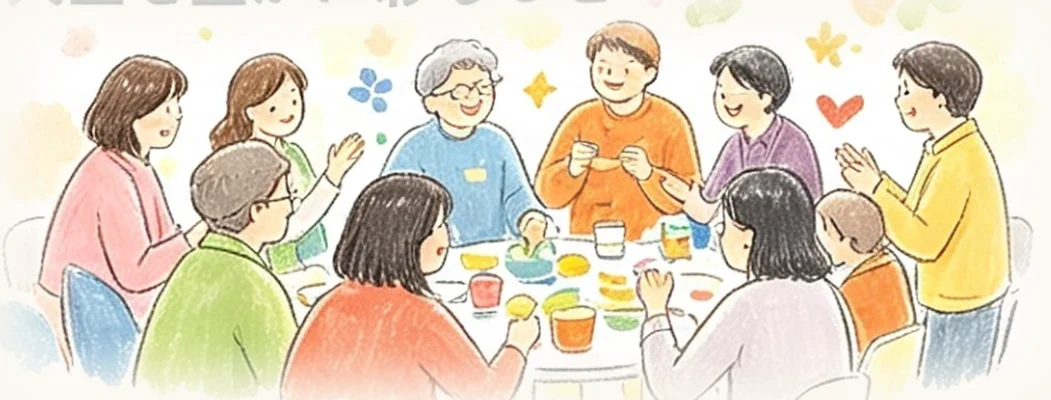
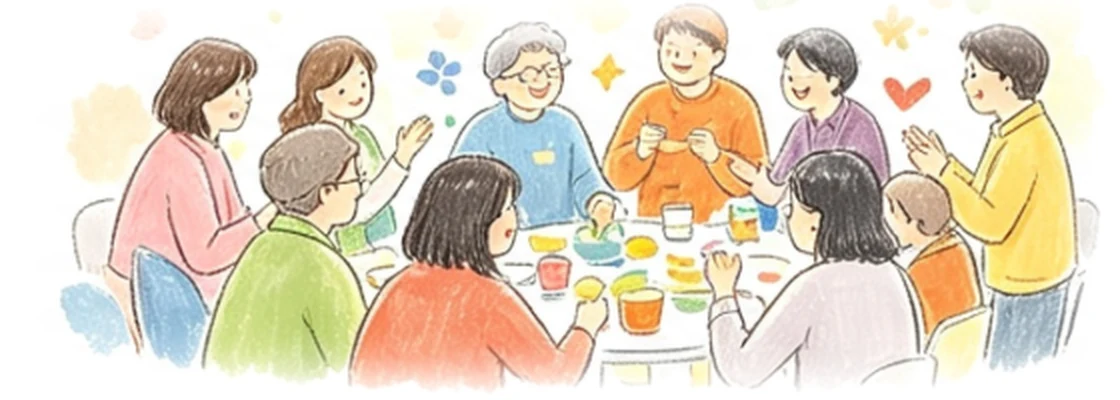
about:理念4本柱のイラストを新版に差し替え（文字なしの絵部分のみ切出し・縁フェード加工）／「〜あり方について、」の後で改行

diff --git a/about.html b/about.html
@@ -1271,7 +1271,7 @@ table{ max-width:100%; }
           <li><figure><img src="images/pillar-03-research.webp" alt="" loading="lazy"></figure><span><b>03</b>共同研究を通じた社会への貢献</span></li>
           <li><figure><img src="images/pillar-04-thirdplace.webp" alt="" loading="lazy"></figure><span><b>04</b>地域社会が連携するサードプレイスであること</span></li>
         </ul>
-        <p class="tr-pillars-sub">私たちが大切にしているこれらの想いと、具体的なトレーニングのあり方について、丁寧にお伝えさせてください。</p>
+        <p class="tr-pillars-sub">私たちが大切にしているこれらの想いと、具体的なトレーニングのあり方について、<br class="br-pc">丁寧にお伝えさせてください。</p>
       </div>
 
       <div class="tr-chapter">
